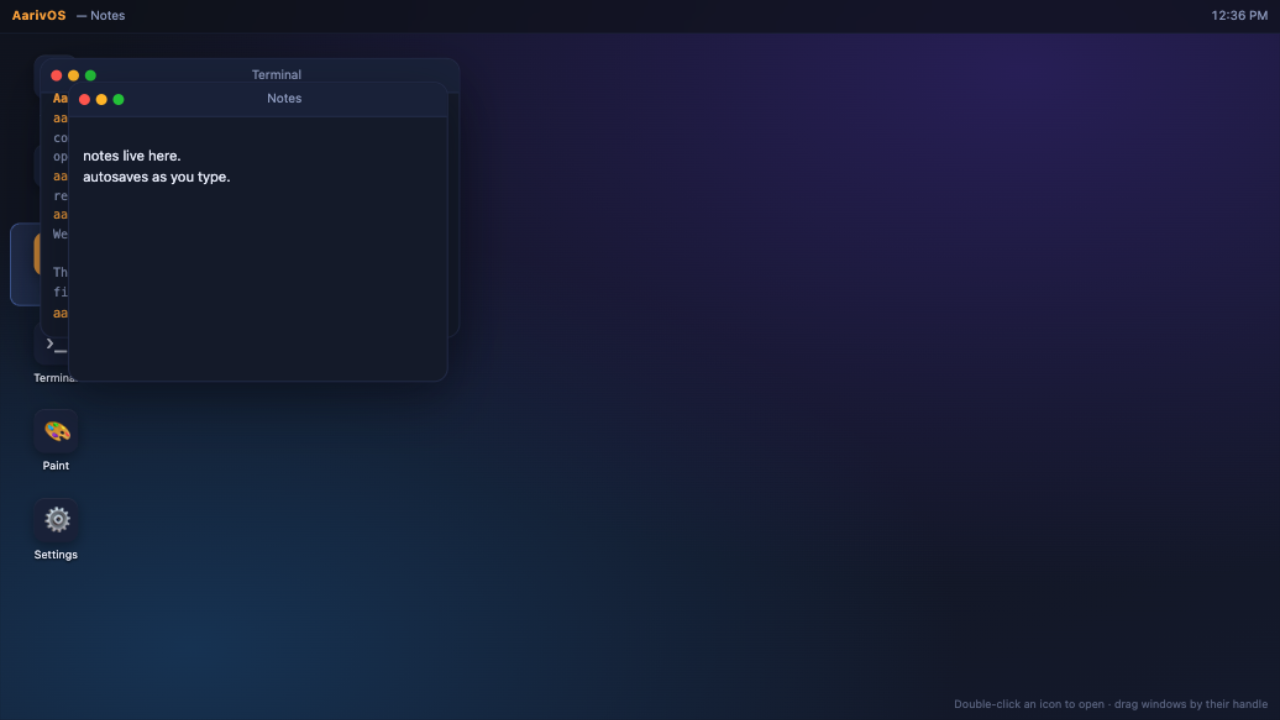
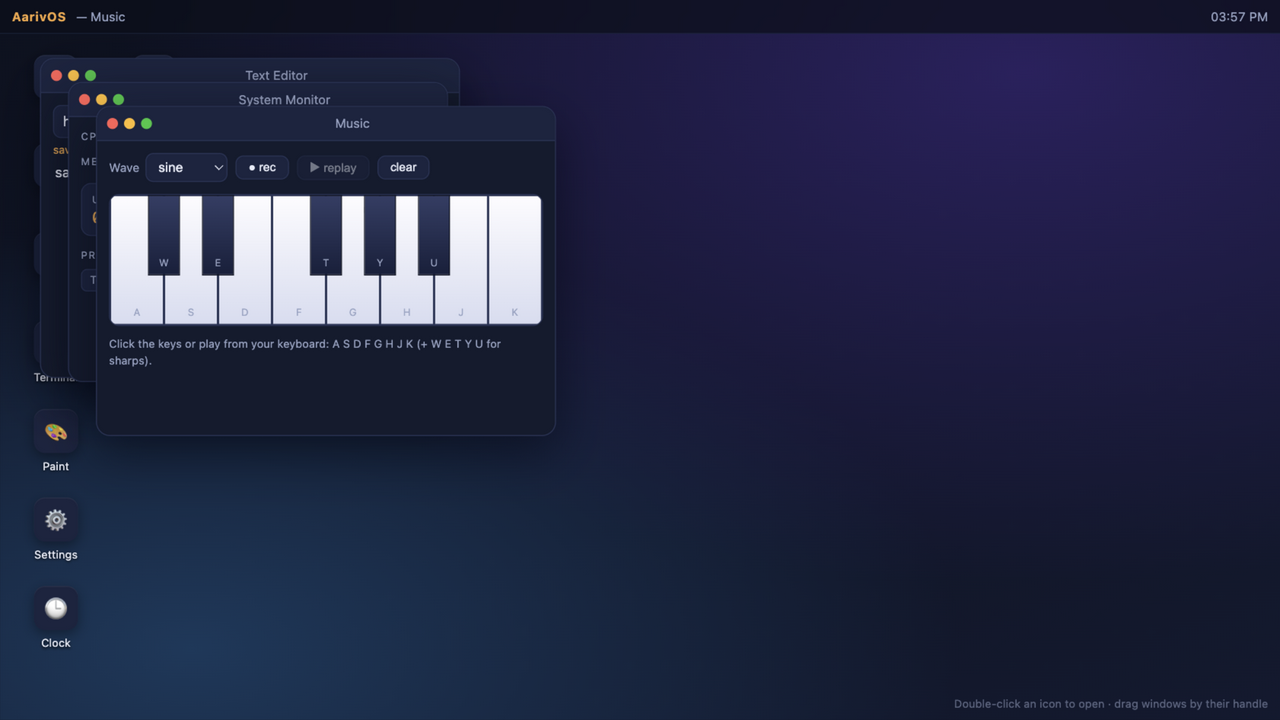
Text Editor, playable synth, reactive System Monitor; verified screenshot

diff --git a/script.js b/script.js
@@ -19,6 +19,7 @@ window.addEventListener("DOMContentLoaded", () => {
 });
 
 /* ---------- clock ---------- */
+const BOOT_AT = Date.now(); // session start — uptime source for System Monitor
 function tick() {
   const n = new Date();
   $("#tb-clock").textContent = n.toLocaleTimeString([], { hour: "2-digit", minute: "2-digit" });
@@ -79,6 +80,8 @@ function closeWindow(id) {
   $("#tb-app").textContent = "";
 }
 
+const openWindowCount = () => openWindows.size; // live count for System Monitor
+
 function raise(el) {
   el.style.zIndex = ++topZ;
   document.querySelectorAll(".window").forEach((w) => w.classList.toggle("focused", w === el));
@@ -125,7 +128,8 @@ Apps.push({
       <h2 style="color:var(--accent);font-size:16px;margin-bottom:8px">AarivOS</h2>
       <p style="color:var(--dim)">A tiny operating system that runs in a browser tab.
       Built from the Hack Club webOS jam and customized: real window manager
-      (drag, focus, close), a virtual file system, notes, a terminal, paint, and settings
+      (drag, focus, close), a virtual file system, notes, a text editor, a synth,
+      a terminal, paint, a system monitor, and settings
       that remember your wallpaper. Everything lives in localStorage — nothing leaves this tab.</p>
       <p style="margin-top:10px;font-size:12px;color:var(--dim)">Built by Aariv Patel with AI coding agents under his direction.</p>`;
   },
@@ -307,6 +311,224 @@ Apps.push({
     drawSw();
 
     return () => { clearInterval(clockTimer); clearInterval(swTimer); };
+  },
+});
+
+Apps.push({
+  id: "editor", name: "Text Editor", glyph: "📄", w: 420, h: 320,
+  render(body) {
+    body.innerHTML = '<div class="editor-wrap">' +
+      '<div class="editor-bar">' +
+      '<input class="editor-name" value="untitled.txt" spellcheck="false" autocomplete="off" aria-label="File name">' +
+      '<button class="btn" data-act="save">Save</button></div>' +
+      '<div class="saved-flash"></div>' +
+      '<textarea class="notes-area" aria-label="File contents"></textarea></div>';
+    const name = $(".editor-name", body);
+    const ta = $("textarea", body);
+    const flash = $(".saved-flash", body);
+    const save = () => {
+      const fname = name.value.trim() || "untitled.txt";
+      const fs = store.get("fs", {});
+      fs[fname] = ta.value;
+      store.set("fs", fs);
+      name.value = fname;
+      flash.textContent = "saved /home/aariv/" + fname + " ✓";
+    };
+    $('[data-act="save"]', body).addEventListener("click", save);
+    ta.addEventListener("input", () => { flash.textContent = ""; });
+    name.addEventListener("input", () => { flash.textContent = ""; });
+    body.addEventListener("keydown", (e) => {
+      if ((e.metaKey || e.ctrlKey) && e.key.toLowerCase() === "s") { e.preventDefault(); save(); }
+    });
+    setTimeout(() => { name.focus(); name.select(); }, 50);
+  },
+});
+
+Apps.push({
+  id: "music", name: "Music", glyph: "🎹", w: 460, h: 330,
+  render(body) {
+    // one octave C4-C5; b = white-key boundary a sharp sits behind (grid of 8)
+    const NOTES = [
+      { n: "C4", f: 261.63, k: "a" },
+      { n: "C#4", f: 277.18, k: "w", b: 1, black: true },
+      { n: "D4", f: 293.66, k: "s" },
+      { n: "D#4", f: 311.13, k: "e", b: 2, black: true },
+      { n: "E4", f: 329.63, k: "d" },
+      { n: "F4", f: 349.23, k: "f" },
+      { n: "F#4", f: 369.99, k: "t", b: 4, black: true },
+      { n: "G4", f: 392.00, k: "g" },
+      { n: "G#4", f: 415.30, k: "y", b: 5, black: true },
+      { n: "A4", f: 440.00, k: "h" },
+      { n: "A#4", f: 466.16, k: "u", b: 6, black: true },
+      { n: "B4", f: 493.88, k: "j" },
+      { n: "C5", f: 523.25, k: "k" },
+    ];
+    let wi = 0;
+    const keysHtml = NOTES.map((nt) => {
+      const hint = nt.n + (nt.black ? " (sharp)" : "") + ", key " + nt.k.toUpperCase();
+      if (!nt.black) {
+        return '<button class="pkey" data-n="' + nt.n + '" style="left:' + (wi++ * 12.5) +
+          '%;width:12.5%" aria-label="' + hint + '"><span>' + nt.k.toUpperCase() + "</span></button>";
+      }
+      return '<button class="pkey black" data-n="' + nt.n + '" style="left:' + (nt.b * 12.5 - 3.75) +
+        '%;width:7.5%" aria-label="' + hint + '"><span>' + nt.k.toUpperCase() + "</span></button>";
+    }).join("");
+    body.innerHTML = '<div class="music-row">' +
+      '<label style="display:flex;gap:6px;align-items:center;font-size:12px;color:var(--dim)">Wave ' +
+      '<select data-act="wave" aria-label="Oscillator wave"><option value="sine">sine</option><option value="triangle">triangle</option></select></label>' +
+      '<button class="btn" data-act="rec">● rec</button>' +
+      '<button class="btn" data-act="play">▶ replay</button>' +
+      '<button class="btn" data-act="clear">clear</button>' +
+      '<span class="music-count" style="font-size:11px;color:var(--dim)"></span></div>' +
+      '<div class="piano">' + keysHtml + "</div>" +
+      '<div class="music-note">Click the keys or play from your keyboard: A S D F G H J K (+ W E T Y U for sharps).</div>';
+
+    const piano = $(".piano", body);
+    const keyEls = {};
+    NOTES.forEach((nt) => { keyEls[nt.n] = $('[data-n="' + nt.n + '"]', body); });
+    const countEl = $(".music-count", body);
+    const recBtn = $('[data-act="rec"]', body);
+    const playBtn = $('[data-act="play"]', body);
+
+    let ctx = null, wave = "sine";
+    const ensureCtx = () => {
+      if (!ctx) ctx = new (window.AudioContext || window.webkitAudioContext)();
+      if (ctx.state === "suspended") ctx.resume();
+      return ctx;
+    };
+    const playNote = (f, dur = 0.45) => {
+      const ac = ensureCtx();
+      const t0 = ac.currentTime;
+      const osc = ac.createOscillator();
+      const g = ac.createGain();
+      osc.type = wave; osc.frequency.value = f;
+      g.gain.setValueAtTime(0.0001, t0);
+      g.gain.exponentialRampToValueAtTime(0.25, t0 + 0.02);
+      g.gain.exponentialRampToValueAtTime(0.0001, t0 + dur);
+      osc.connect(g); g.connect(ac.destination);
+      osc.start(t0); osc.stop(t0 + dur + 0.05);
+    };
+
+    let recOn = false, take = [], recStart = 0, playing = false;
+    const timers = [];
+    const flash = (n) => {
+      const el = keyEls[n]; if (!el) return;
+      el.classList.add("down");
+      timers.push(setTimeout(() => el.classList.remove("down"), 180));
+    };
+    const drawCount = () => {
+      countEl.textContent = take.length ? take.length + (take.length === 1 ? " note" : " notes") : "";
+      playBtn.disabled = !take.length || playing;
+    };
+    const press = (n) => {
+      const nt = NOTES.find((x) => x.n === n); if (!nt) return;
+      playNote(nt.f);
+      flash(n);
+      if (recOn) { take.push({ n, t: performance.now() - recStart }); drawCount(); }
+    };
+
+    piano.addEventListener("pointerdown", (e) => {
+      const el = e.target.closest(".pkey"); if (el) press(el.dataset.n);
+    });
+    const onKeys = (e) => {
+      if (e.repeat || e.metaKey || e.ctrlKey || e.altKey) return;
+      if (e.target.closest && e.target.closest("input, textarea, select")) return;
+      const nt = NOTES.find((x) => x.k === e.key.toLowerCase());
+      if (nt) { e.preventDefault(); press(nt.n); }
+    };
+    window.addEventListener("keydown", onKeys);
+
+    recBtn.addEventListener("click", () => {
+      recOn = !recOn;
+      if (recOn) { take = []; recStart = performance.now(); }
+      recBtn.textContent = recOn ? "■ stop" : "● rec";
+      recBtn.classList.toggle("rec-on", recOn);
+      drawCount();
+    });
+    playBtn.addEventListener("click", () => {
+      if (!take.length || playing) return;
+      playing = true; playBtn.disabled = true;
+      const total = take[take.length - 1].t + 450;
+      take.forEach((ev) => {
+        const nt = NOTES.find((x) => x.n === ev.n); if (!nt) return;
+        timers.push(setTimeout(() => { playNote(nt.f); flash(ev.n); }, ev.t));
+      });
+      timers.push(setTimeout(() => { playing = false; drawCount(); }, total));
+    });
+    $('[data-act="clear"]', body).addEventListener("click", () => {
+      take = []; recOn = false;
+      recBtn.textContent = "● rec"; recBtn.classList.remove("rec-on");
+      drawCount();
+    });
+    $('[data-act="wave"]', body).addEventListener("change", (e) => { wave = e.target.value; });
+    drawCount();
+
+    return () => {
+      timers.forEach(clearTimeout);
+      window.removeEventListener("keydown", onKeys);
+      if (ctx) ctx.close();
+      ctx = null;
+    };
+  },
+});
+
+Apps.push({
+  id: "sysmon", name: "System Monitor", glyph: "📊", w: 380, h: 300,
+  render(body) {
+    body.innerHTML =
+      '<div class="mon-row"><span class="mon-label">CPU</span>' +
+      '<div class="mon-bar" role="meter" aria-valuemin="0" aria-valuemax="100" aria-label="CPU usage"><div class="mon-fill" data-k="cpu"></div></div>' +
+      '<span class="mon-val" data-v="cpu">--%</span></div>' +
+      '<div class="mon-row" style="margin-top:10px"><span class="mon-label">MEM</span>' +
+      '<div class="mon-bar" role="meter" aria-valuemin="0" aria-valuemax="100" aria-label="Memory usage"><div class="mon-fill" data-k="mem"></div></div>' +
+      '<span class="mon-val" data-v="mem">--%</span></div>' +
+      '<div class="mon-stats">' +
+      '<div class="mon-stat"><span class="mon-k">Uptime</span><span class="mon-v" data-v="up">0:00:00</span></div>' +
+      '<div class="mon-stat"><span class="mon-k">Windows</span><span class="mon-v" data-v="win">' + openWindowCount() + "</span></div>" +
+      "</div>" +
+      '<div><div class="mon-k">Processes (live)</div><div class="mon-list" data-v="procs"></div></div>';
+
+    const cpuFill = $('[data-k="cpu"]', body), memFill = $('[data-k="mem"]', body);
+    const cpuVal = $('[data-v="cpu"]', body), memVal = $('[data-v="mem"]', body);
+    const upVal = $('[data-v="up"]', body), winVal = $('[data-v="win"]', body);
+    const procsEl = $('[data-v="procs"]', body);
+    const clamp = (v, lo, hi) => Math.min(hi, Math.max(lo, v));
+    const fmtUp = (ms) => {
+      const s = Math.floor(ms / 1000);
+      return Math.floor(s / 3600) + ":" + String(Math.floor(s / 60) % 60).padStart(2, "0") + ":" + String(s % 60).padStart(2, "0");
+    };
+    let cpu = 22, mem = 38, cpuT = cpu, memT = mem, frame = 0, lastProcs = "";
+    let raf;
+    const loop = () => {
+      frame++;
+      const wins = openWindowCount();
+      if (frame % 40 === 0) { // new noise target ~every 2/3s; more windows = busier
+        cpuT = clamp(8 + wins * 4 + Math.random() * 34, 5, 97);
+        memT = clamp(24 + wins * 5 + Math.random() * 14, 18, 92);
+      }
+      cpu += (cpuT - cpu) * 0.055;
+      mem += (memT - mem) * 0.055;
+      cpuFill.style.width = cpu.toFixed(1) + "%";
+      memFill.style.width = mem.toFixed(1) + "%";
+      if (frame % 12 === 0) {
+        cpuVal.textContent = Math.round(cpu) + "%";
+        memVal.textContent = Math.round(mem) + "%";
+        cpuFill.parentElement.setAttribute("aria-valuenow", Math.round(cpu));
+        memFill.parentElement.setAttribute("aria-valuenow", Math.round(mem));
+        upVal.textContent = fmtUp(Date.now() - BOOT_AT);
+        winVal.textContent = wins;
+      }
+      const sig = [...openWindows.keys()].join();
+      if (sig !== lastProcs) {
+        lastProcs = sig;
+        procsEl.innerHTML = sig
+          ? [...openWindows.keys()].map((id) => { const a = Apps.find((x) => x.id === id); return '<span class="proc">' + (a ? a.name : id) + "</span>"; }).join("")
+          : '<span class="proc">nothing running — open an app!</span>';
+      }
+      raf = requestAnimationFrame(loop);
+    };
+    raf = requestAnimationFrame(loop);
+    return () => cancelAnimationFrame(raf);
   },
 });
 

diff --git a/style.css b/style.css
@@ -126,6 +126,54 @@ canvas.paint { background: #0a0e1a; border-radius: 8px; border: 1px solid var(--
   border-radius: 8px; padding: 4px 10px; cursor: pointer; font-size: 12px; }
 .paint-tools button:hover { border-color: var(--accent); }
 
+/* Text Editor */
+.editor-wrap { display: flex; flex-direction: column; height: 100%; gap: 4px; }
+.editor-bar { display: flex; gap: 8px; }
+.editor-name { flex: 1; min-width: 0; background: var(--panel-2); border: 1px solid var(--line);
+  border-radius: 8px; color: var(--text); padding: 5px 9px; font: inherit; outline: none; }
+.editor-name:focus { border-color: var(--accent); }
+.editor-wrap .notes-area { flex: 1; height: auto; min-height: 120px; }
+
+/* Shared button (new apps) */
+.btn { background: var(--panel-2); color: var(--text); border: 1px solid var(--line);
+  border-radius: 8px; padding: 4px 12px; cursor: pointer; font-size: 12px; }
+.btn:hover { border-color: var(--accent); }
+.btn:focus-visible { outline: 2px solid var(--accent-2); outline-offset: 1px; }
+.btn:disabled { opacity: .45; cursor: default; }
+.btn.rec-on { background: #ff6057; border-color: #ff6057; color: #fff; }
+
+/* Music */
+.music-row { display: flex; gap: 8px; align-items: center; flex-wrap: wrap; }
+.music-row select { background: var(--panel-2); color: var(--text); border: 1px solid var(--line);
+  border-radius: 8px; padding: 5px 8px; outline: none; }
+.piano { position: relative; height: 132px; margin-top: 12px; border-radius: 10px;
+  border: 1px solid var(--line); background: var(--panel-2); overflow: hidden; }
+.pkey { position: absolute; top: 0; bottom: 0; display: flex; align-items: flex-end; justify-content: center;
+  padding: 0 0 6px; font-family: inherit; font-size: 10px; color: var(--dim);
+  background: linear-gradient(#fdfcff, #d8ddf1); border: 1px solid var(--line); border-radius: 0;
+  cursor: pointer; }
+.pkey:hover { background: #eef1fc; }
+.pkey:focus-visible { outline: 2px solid var(--accent-2); outline-offset: -2px; z-index: 3; }
+.pkey.down, .pkey:active { background: var(--accent); color: var(--ink); }
+.pkey.black { bottom: auto; height: 62%; background: linear-gradient(#333e66, #18203c);
+  border-color: #0b101f; z-index: 2; }
+.pkey.black.down, .pkey.black:active { background: var(--accent-2); }
+.music-note { margin-top: 10px; font-size: 11px; color: var(--dim); }
+
+/* System Monitor */
+.mon-row { display: grid; grid-template-columns: 36px 1fr 42px; gap: 8px; align-items: center; }
+.mon-label { font-size: 10px; letter-spacing: .14em; color: var(--dim); }
+.mon-bar { height: 12px; border-radius: 6px; background: var(--panel-2); border: 1px solid var(--line); overflow: hidden; }
+.mon-fill { height: 100%; width: 0; background: linear-gradient(90deg, var(--accent-2), var(--accent)); }
+.mon-val { font: 12px ui-monospace, "SF Mono", Menlo, monospace; text-align: right; font-variant-numeric: tabular-nums; }
+.mon-stats { display: flex; gap: 10px; margin: 14px 0 12px; }
+.mon-stat { flex: 1; display: flex; flex-direction: column; gap: 2px;
+  background: var(--panel-2); border: 1px solid var(--line); border-radius: 10px; padding: 8px 10px; }
+.mon-k { font-size: 10px; letter-spacing: .12em; text-transform: uppercase; color: var(--dim); }
+.mon-v { font: 500 15px/1.2 ui-monospace, "SF Mono", Menlo, monospace; color: var(--accent); font-variant-numeric: tabular-nums; }
+.mon-list { display: flex; flex-wrap: wrap; gap: 6px; margin-top: 6px; }
+.proc { font-size: 11px; color: var(--dim); background: var(--panel-2); border: 1px solid var(--line); border-radius: 6px; padding: 2px 8px; }
+
 #dock-hint { position: absolute; bottom: 8px; right: 12px; font-size: 11px; color: rgba(151, 163, 196, .55); }
 
 @media (prefers-reduced-motion: reduce) {

diff --git a/README.md b/README.md
@@ -6,13 +6,17 @@ webOS jam (batch guide) and customized:
 - **Window manager** exactly like the jam teaches: one `createWindow`
   initializer, drag-by-handle, close dots, raise-on-focus z-index.
 - **Boot screen**, top bar with a live clock and focused-app name.
-- **Six apps**: About, Files (persistent virtual file system in localStorage,
-  click a file to read it), Notes (autosaves, files appear in Files), Terminal
-  (`help`, `ls`, `cat`, `echo`, `date`, `whoami`, `open <app>`, `clear`), Paint
-  (canvas doodle with color and brush size), Settings (three wallpapers,
-  erase-all — persisted).
+- **Nine apps**: About, Files (persistent virtual file system in localStorage,
+  click a file to read it), Notes (autosaves, files appear in Files), Text
+  Editor (name + Save writes into the same file system, ⌘/Ctrl+S works), Music
+  (Web Audio synth — one octave C4–C5 with sharps, sine/triangle toggle,
+  record & replay, playable from your computer keyboard), Terminal (`help`,
+  `ls`, `cat`, `echo`, `date`, `whoami`, `open <app>`, `clear`), Paint (canvas
+  doodle with color and brush size), System Monitor (live CPU/MEM bars, uptime
+  counter, real open-window count), Settings (three wallpapers, erase-all —
+  persisted).
 - Vanilla HTML/CSS/JS, zero dependencies, keyboard accessible (Enter opens an
-  icon, Esc closes the focused window).
+  icon, Esc closes the focused window, the synth is playable from the A–K row).
 
 Live: https://aariv.me/webos/
 

diff --git a/BUILD-LOG.md b/BUILD-LOG.md
@@ -13,5 +13,18 @@ Followed the Hack Club webOS jam (jams.hackclub.com/batch/webOS) parts 1-4.
 8. Fixed two bugs found in testing: terminal printed escaped HTML
    (switched to insertAdjacentHTML), default FS wasn't persisted.
 9. Verified in a real browser: boot, 2 windows, terminal help/ls/cat, screenshot.
+10. Added Text Editor: filename + Save writes into the same localStorage FS as
+    Files/Notes, so saved files show up in Files automatically; ⌘/Ctrl+S saves.
+11. Added Music: Web Audio synth, one octave C4–C5 (with black keys), sine/
+    triangle toggle, record + replay of the take, also playable from the
+    A–K / W E T Y U computer keys. AudioContext and timers are cleaned up when
+    the window closes (render-cleanup pattern).
+12. Added System Monitor: requestAnimationFrame noise-driven CPU/MEM bars that
+    also react to how many windows are open, a real uptime counter, and a live
+    window count + process chips read from the openWindows Map.
+13. Small pattern extensions for the monitor: openWindowCount() helper next to
+    the window system and a BOOT_AT timestamp for uptime.
+14. node --check clean. Browser pass still to do: sound needs one interaction
+    before it starts (autoplay policy), and the piano layout wants eyeballing.
 
 Each numbered step is a devlog-sized chunk. Attach screenshot.png to devlogs.
